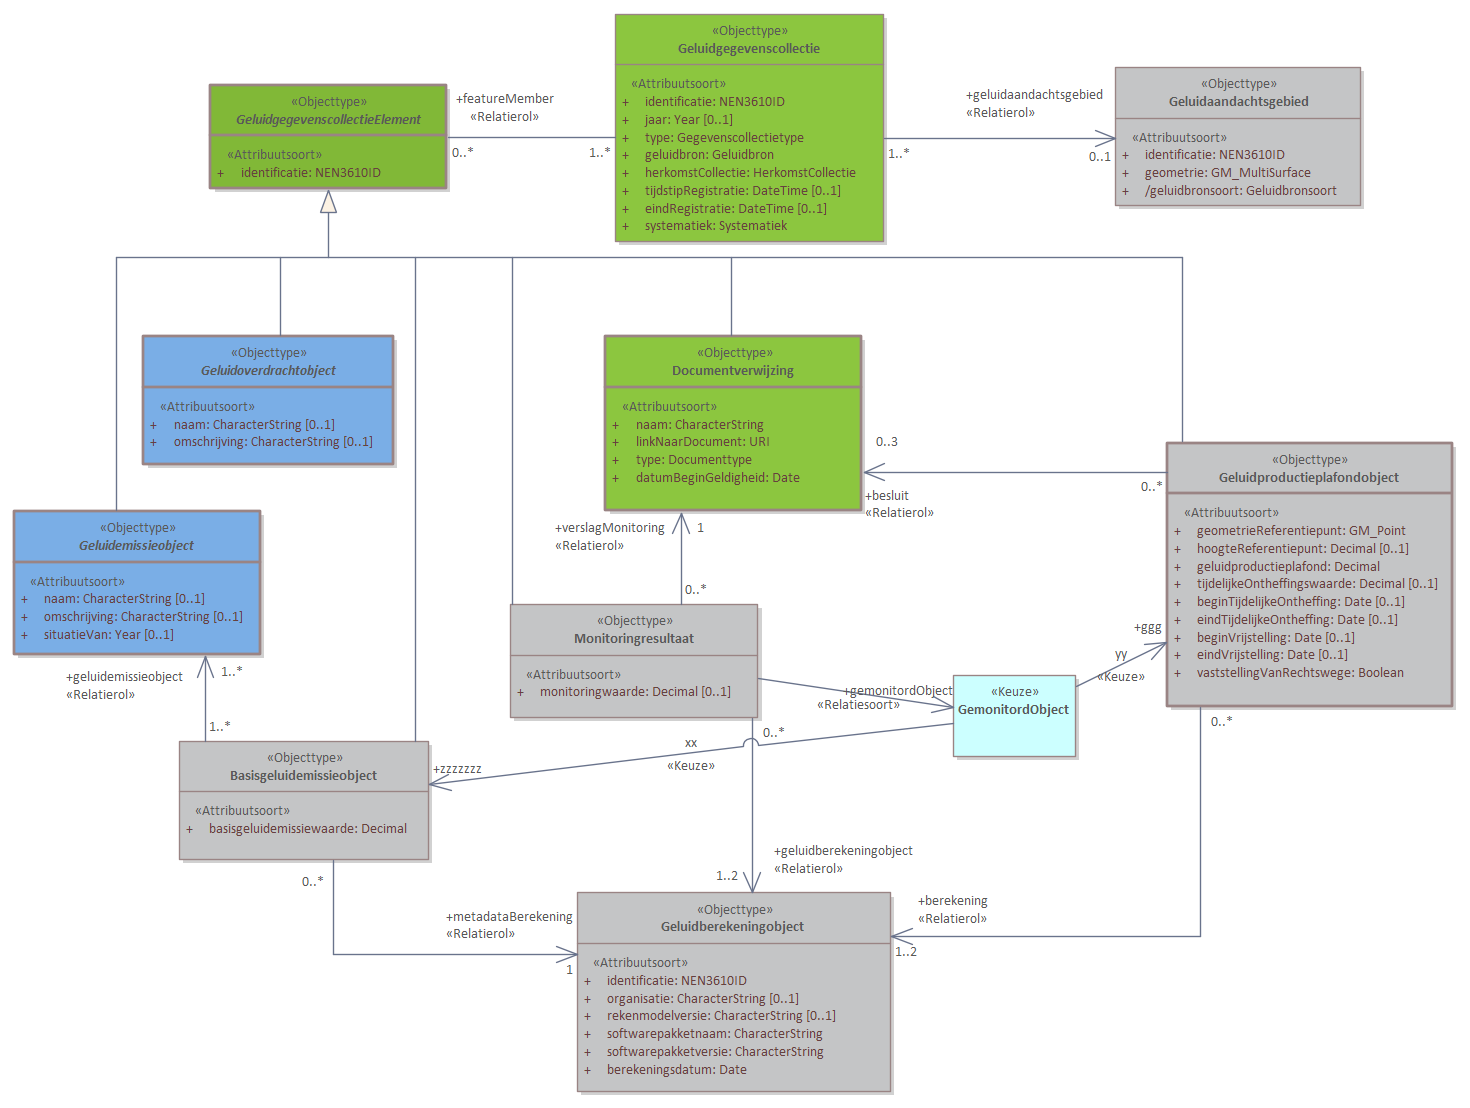
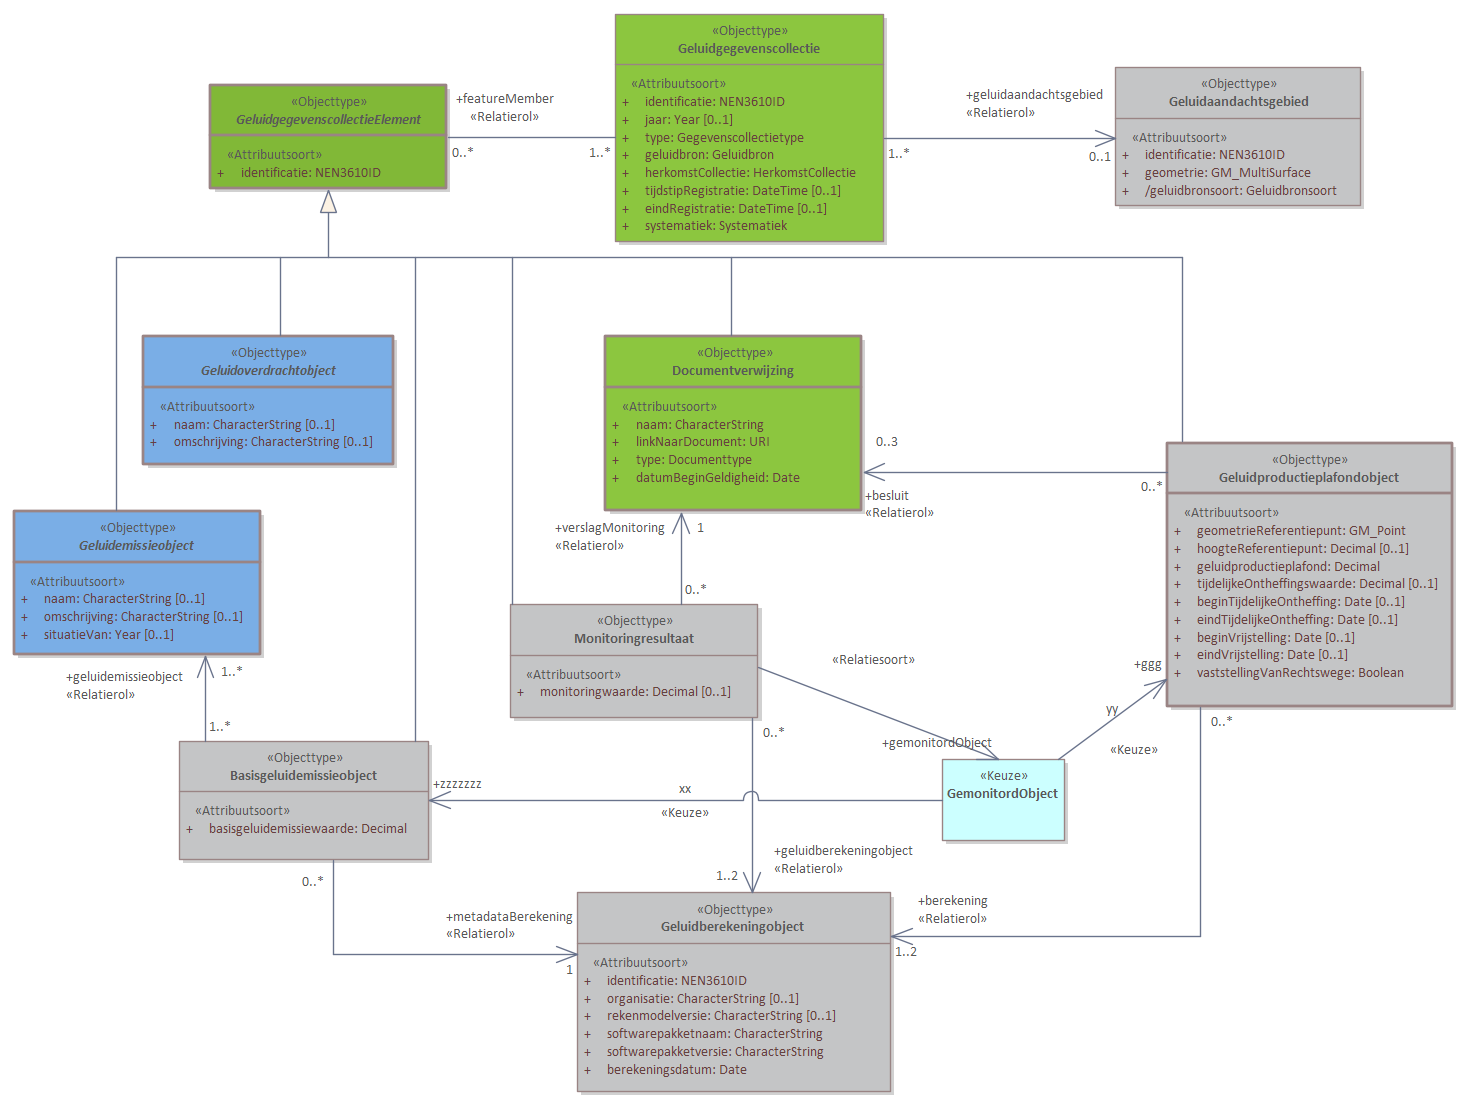
MIMLM-InformatiemodelGeluid-2.1-0-20221025-20230331-085846

Changed region(s): [[0.551, 0.5523, 0.7959, 0.7671], [0.4286, 0.6751, 0.4898, 0.7365], [0.2755, 0.6751, 0.3367, 0.7365]]

diff --git a/data/IMG-cat.respec.html b/data/IMG-cat.respec.html
@@ -1,10 +1,10 @@
 
 <!DOCTYPE HTML><section id="cat" class="normative">
    <h2>Gegevensdefinitie</h2>
-   <!--MIMLM-InformatiemodelGeluid-2.1-0-20221025-20230331-083940 imvertor 1.67.1-->
+   <!--MIMLM-InformatiemodelGeluid-2.1-0-20221025-20230331-085846 imvertor 1.67.1-->
    <section id="EAID_66AE8FA2_74FC_4d4d_B2B2_249C8D6A651F">
       <h3>   Basismodel - overzicht</h3>
-      <div class="imageinfo overview"><img src="data/Images/EAID_66AE8FA2_74FC_4d4d_B2B2_249C8D6A651F.png" usemap="#imagemap-EAID_66AE8FA2_74FC_4d4d_B2B2_249C8D6A651F" alt="Diagram &#xA;                        Het Basismodel vormt de samenhang tussen alle domeinen van het IMGeluid. Alle objecttypen en relaties uit het IMGeluid komen samen in een Geluidgegevenscollectie.&#xA;Binnen het IMGeluid worden geluidbrongegevens die gebruikt worden voor GPP en BGE berekeningen, gemodelleerd als een Geluidemissie of Geluidoverdrachtobject. De resultaten van GPP of BGE berekeningen worden opgeslagen in een Geluidgegevenscollectie. De onderliggende juridische vastleggingen, vaststellingen, of monitoringsverslagen van deze omgevings- of monitoringswaarden, worden ook opgeslagen in dezelfde Geluidgegevenscollectie.&#xA;Per geluidbron per toepassing kan er een Geluidgegevenscollectie bestaan. Deze kan geassocieerd worden met maximaal 1 Geluidaandachtsgebied. Wanneer geluidgegevens met betrekking tot cumulatieberekeningen worden aangeleverd, bevat een Geluidgegevenscollectie geen Geluidaandachtsgebied.&#xA;Klik met de rechtermuisknop op het diagram om de afbeelding op volledige grootte in een nieuw tabblad te openen.&#xA;                     "><map name="imagemap-EAID_66AE8FA2_74FC_4d4d_B2B2_249C8D6A651F"><area shape="rect" alt="GemonitordObject" coords="953,675,1076,757" href="#graph_EAID_93DEDD3D_C637_4bfc_B071_B95B42F6A21C"><area shape="rect" alt="GeluidgegevenscollectieElement" coords="210,85,447,189" href="#graph_EAID_924BD078_D715_461a_B7E9_D7176A7406E0"><area shape="rect" alt="Monitoringresultaat" coords="510,604,758,718" href="#graph_EAID_BA00B77B_D408_4590_8185_CE59E5838F1E"><area shape="rect" alt="Basisgeluidemissieobject" coords="179,741,429,860" href="#graph_EAID_9AD15457_4880_42e5_8C72_4E5EFAC91B15"><area shape="rect" alt="Geluidproductieplafondobject" coords="1167,443,1453,707" href="#graph_EAID_237408F8_8CE9_4828_B8FB_1A5B8C917622"><area shape="rect" alt="Geluidberekeningobject" coords="577,892,891,1092" href="#graph_EAID_97ED59FE_9FCA_49a6_8F07_214E48000B76"><area shape="rect" alt="Documentverwijzing" coords="605,336,862,511" href="#graph_EAID_7E137496_1028_4af5_9367_569358A2167B"><area shape="rect" alt="Geluidaandachtsgebied" coords="1115,67,1361,206" href="#graph_EAID_B06128AC_518C_4e26_88E5_14ED5A050A19"><area shape="rect" alt="Geluidgegevenscollectie" coords="615,14,884,242" href="#graph_EAID_313C5AF9_49B8_4860_9E65_DE7C70084864"><area shape="rect" alt="Geluidemissieobject" coords="14,511,261,655" href="#graph_EAID_361C96BA_A638_494e_80BA_590ED481A81B"><area shape="rect" alt="Geluidoverdrachtobject" coords="143,336,394,465" href="#graph_EAID_2FEA326B_B7E7_48a4_B50F_00CCB2694677"></map><p><b>Basismodel - overzicht</b>
+      <div class="imageinfo overview"><img src="data/Images/EAID_66AE8FA2_74FC_4d4d_B2B2_249C8D6A651F.png" usemap="#imagemap-EAID_66AE8FA2_74FC_4d4d_B2B2_249C8D6A651F" alt="Diagram &#xA;                        Het Basismodel vormt de samenhang tussen alle domeinen van het IMGeluid. Alle objecttypen en relaties uit het IMGeluid komen samen in een Geluidgegevenscollectie.&#xA;Binnen het IMGeluid worden geluidbrongegevens die gebruikt worden voor GPP en BGE berekeningen, gemodelleerd als een Geluidemissie of Geluidoverdrachtobject. De resultaten van GPP of BGE berekeningen worden opgeslagen in een Geluidgegevenscollectie. De onderliggende juridische vastleggingen, vaststellingen, of monitoringsverslagen van deze omgevings- of monitoringswaarden, worden ook opgeslagen in dezelfde Geluidgegevenscollectie.&#xA;Per geluidbron per toepassing kan er een Geluidgegevenscollectie bestaan. Deze kan geassocieerd worden met maximaal 1 Geluidaandachtsgebied. Wanneer geluidgegevens met betrekking tot cumulatieberekeningen worden aangeleverd, bevat een Geluidgegevenscollectie geen Geluidaandachtsgebied.&#xA;Klik met de rechtermuisknop op het diagram om de afbeelding op volledige grootte in een nieuw tabblad te openen.&#xA;                     "><map name="imagemap-EAID_66AE8FA2_74FC_4d4d_B2B2_249C8D6A651F"><area shape="rect" alt="GemonitordObject" coords="942,759,1065,841" href="#graph_EAID_93DEDD3D_C637_4bfc_B071_B95B42F6A21C"><area shape="rect" alt="GeluidgegevenscollectieElement" coords="210,85,447,189" href="#graph_EAID_924BD078_D715_461a_B7E9_D7176A7406E0"><area shape="rect" alt="Monitoringresultaat" coords="510,604,758,718" href="#graph_EAID_BA00B77B_D408_4590_8185_CE59E5838F1E"><area shape="rect" alt="Basisgeluidemissieobject" coords="179,741,429,860" href="#graph_EAID_9AD15457_4880_42e5_8C72_4E5EFAC91B15"><area shape="rect" alt="Geluidproductieplafondobject" coords="1167,443,1453,707" href="#graph_EAID_237408F8_8CE9_4828_B8FB_1A5B8C917622"><area shape="rect" alt="Geluidberekeningobject" coords="577,892,891,1092" href="#graph_EAID_97ED59FE_9FCA_49a6_8F07_214E48000B76"><area shape="rect" alt="Documentverwijzing" coords="605,336,862,511" href="#graph_EAID_7E137496_1028_4af5_9367_569358A2167B"><area shape="rect" alt="Geluidaandachtsgebied" coords="1115,67,1361,206" href="#graph_EAID_B06128AC_518C_4e26_88E5_14ED5A050A19"><area shape="rect" alt="Geluidgegevenscollectie" coords="615,14,884,242" href="#graph_EAID_313C5AF9_49B8_4860_9E65_DE7C70084864"><area shape="rect" alt="Geluidemissieobject" coords="14,511,261,655" href="#graph_EAID_361C96BA_A638_494e_80BA_590ED481A81B"><area shape="rect" alt="Geluidoverdrachtobject" coords="143,336,394,465" href="#graph_EAID_2FEA326B_B7E7_48a4_B50F_00CCB2694677"></map><p><b>Basismodel - overzicht</b>
             
             <p>Het Basismodel vormt de samenhang tussen alle domeinen van het IMGeluid. Alle objecttypen
                en relaties uit het IMGeluid komen samen in een Geluidgegevenscollectie.
@@ -26138,7 +26138,7 @@
 </section>
 <section id="lis" class="normative">
    <h2>Inhoud van waardenlijsten</h2>
-   <!--MIMLM-InformatiemodelGeluid-2.1-0-20221025-20230331-083940 imvertor 1.67.1--><a class="anchor" id="graph_EAID_C9ACE184_6E2B_40c1_ACE0_A7C5EE554EF9"></a><a class="anchor" id="detail_class_IMGeluidAlgemeen_Schermtype"></a><section id="detail_class_IMGeluidAlgemeen_Schermtype">
+   <!--MIMLM-InformatiemodelGeluid-2.1-0-20221025-20230331-085846 imvertor 1.67.1--><a class="anchor" id="graph_EAID_C9ACE184_6E2B_40c1_ACE0_A7C5EE554EF9"></a><a class="anchor" id="detail_class_IMGeluidAlgemeen_Schermtype"></a><section id="detail_class_IMGeluidAlgemeen_Schermtype">
       <h3>Enumeratie details  Schermtype</h3>
       
       <table style="width: 100%;" class="list">
